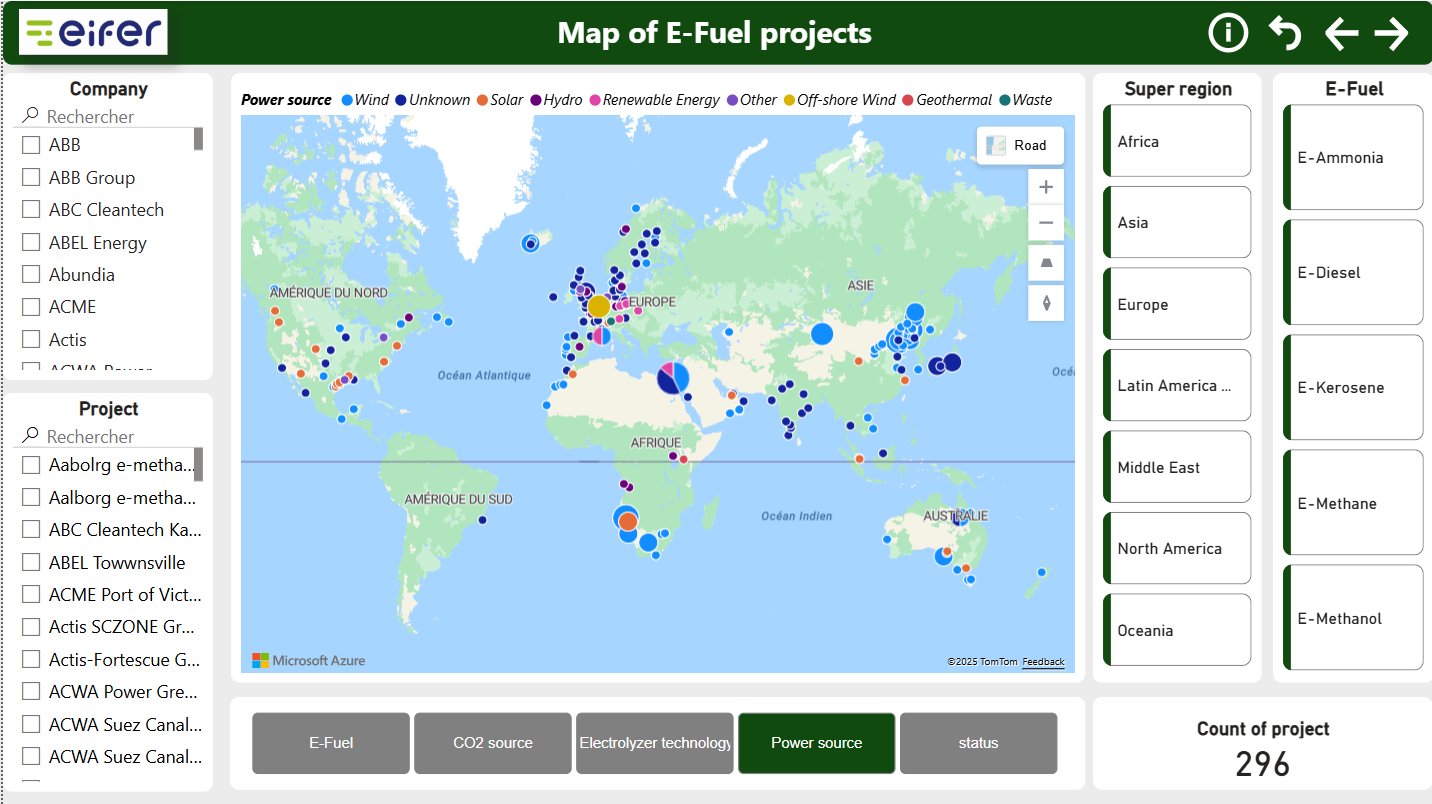
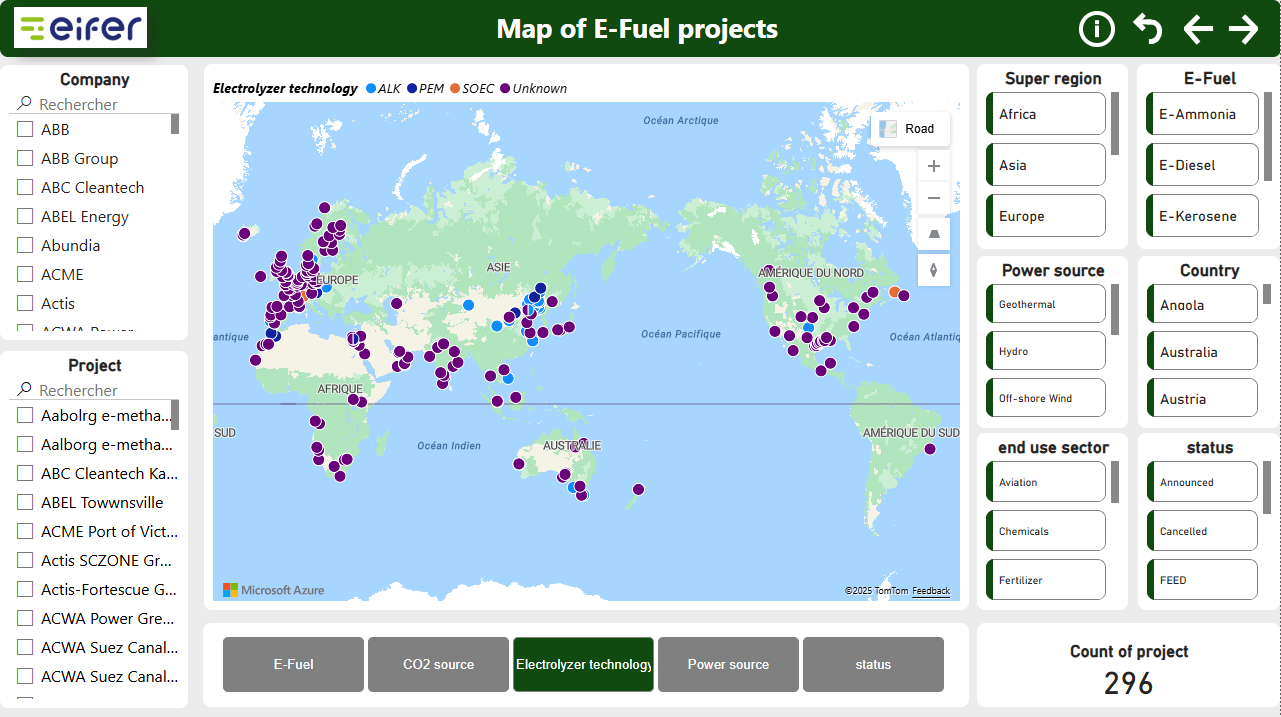
new images

diff --git a/index.html b/index.html
@@ -673,7 +673,7 @@
                 <div class="section-title">Map of E‑Fuel Projects</div>
             </div>
             <div class="section-tag">
-                Explore the global project landscape and filter by company, region, and e‑fuel type.
+                Explore the global project landscape and filter by company, region, fuel type, technology and status.
             </div>
         </div>
 
@@ -682,8 +682,8 @@
                 <h3>What you see</h3>
                 <p>
                     This page displays an interactive world map showing all E‑Fuel projects included in the
-                    dataset. Each point on the map represents a project, and its color indicates the project
-                    status (announced, operational, cancelled, etc.).
+                    dataset. Each point on the map represents a project, and its color indicates the selected
+                    legend (for example electrolyzer technology).
                 </p>
 
                 <div class="pill-section-title">
@@ -694,7 +694,11 @@
                     <li><strong>Company</strong>: Displays projects associated with a specific company.</li>
                     <li><strong>Project</strong>: Allows selection of individual projects.</li>
                     <li><strong>Super region</strong>: Filters projects by geographic area (Europe, Asia, Africa, etc.).</li>
-                    <li><strong>E‑Fuel</strong>: Filters by the type of e‑fuel (e‑ammonia, e‑methanol, e‑kerosene, etc.).</li>
+                    <li><strong>E‑Fuel</strong>: Filters by the type of e‑fuel (e‑ammonia, e‑diesel, e‑kerosene, etc.).</li>
+                    <li><strong>Power source</strong>: Filters by the primary energy source (e.g. wind, hydro, geothermal, off‑shore wind).</li>
+                    <li><strong>Country</strong>: Restricts the map to one or several countries.</li>
+                    <li><strong>End‑use sector</strong>: Filters projects by the final use of the fuel (aviation, chemicals, fertilizer, shipping, etc.).</li>
+                    <li><strong>Status</strong>: Filters by project status (announced, under construction, operational, cancelled, etc.).</li>
                 </ul>
 
                 <div class="pill-section-title">
@@ -703,7 +707,8 @@
                 </div>
                 <ul>
                     <li>Click on a geographic area to zoom in.</li>
-                    <li>Use the filters on the left and right to focus the analysis on a specific company, e‑fuel type, or region.</li>
+                    <li>Use the filters on the left and right to focus the analysis on a specific company, e‑fuel type, region, power source, sector or status.</li>
+                    <li>Use the buttons at the bottom of the page to change the legend (coloring) between E‑Fuel, CO₂ source, Electrolyzer technology, Power source and Status.</li>
                     <li>The total number of projects (shown in the bottom right) updates automatically based on selected filters.</li>
                 </ul>
             </article>
@@ -735,7 +740,7 @@
                 <div class="section-title">Cumulative Production of Chosen Metrics</div>
             </div>
             <div class="section-tag">
-                Track how CO₂ capture, e‑fuel output, and hydrogen production evolve over time.
+                Track how CO₂ capture, e‑fuel output, and hydrogen production evolve over time, and filter by fuel type, region, power source and country.
             </div>
         </div>
 
@@ -749,7 +754,7 @@
                 <ul>
                     <li>The horizontal axis (X‑axis) shows the year.</li>
                     <li>The vertical axis (Y‑axis) shows the cumulative quantity (in tons per year).</li>
-                    <li>The bars illustrate how production evolves over time for the selected metric.</li>
+                    <li>The bars illustrate how production evolves over time for the selected metric (CO₂ capture, e‑fuel production or H₂ production).</li>
                 </ul>
 
                 <div class="pill-section-title">
@@ -757,9 +762,11 @@
                     Available filters
                 </div>
                 <ul>
-                    <li><strong>Metric</strong>: Choose between CO₂ capture, e‑fuel production, or H₂ production.</li>
-                    <li><strong>E‑Fuel</strong>: Filters by type of e‑fuel involved.</li>
-                    <li><strong>Super region</strong>: Filters the data by geographic region.</li>
+                    <li><strong>Metric</strong>: Buttons at the bottom let you switch between CO₂ capture, e‑fuel production, and H₂ production.</li>
+                    <li><strong>E‑Fuel</strong>: Filters by the type of e‑fuel involved (e‑ammonia, e‑diesel, e‑kerosene, e‑methane, etc.).</li>
+                    <li><strong>Super region</strong>: Filters the data by geographic region (Africa, Asia, Europe, Latin America, Middle East, etc.).</li>
+                    <li><strong>Power source</strong>: Filters by the power source driving the production (e.g. geothermal, hydro, off‑shore wind).</li>
+                    <li><strong>Country</strong>: Focuses on the cumulative production for one or several countries.</li>
                 </ul>
 
                 <div class="pill-section-title">
@@ -768,8 +775,8 @@
                 </div>
                 <ul>
                     <li>Select the desired metric at the bottom of the page to update the chart.</li>
-                    <li>Use the filters to analyze production trends in a specific region.</li>
-                    <li>The “Count of projects” indicator automatically updates based on the selected filters.</li>
+                    <li>Use the filters to analyse production trends in a specific region, country, power source or e‑fuel type.</li>
+                    <li>The “Count of project” indicator automatically updates based on the selected filters.</li>
                 </ul>
             </article>
 
@@ -990,9 +997,9 @@
                 </ul>
             </article>
 
-            <aside class="fake-chart" aria-hidden="true">
-                <img src="image/company_details.png" alt="Power BI page: Company details" class="report-image" />
-            </aside>
+        <aside class="fake-chart" aria-hidden="true">
+            <img src="image/company_details.png" alt="Power BI page: Company details" class="report-image" />
+        </aside>
         </div>
 
         <div class="pager">
@@ -1017,7 +1024,7 @@
                 <div class="section-title">Status details of E‑Fuel projects</div>
             </div>
             <div class="section-tag">
-                Inspect how project statuses are distributed in a selected year and slice by region, country and e‑fuel type.
+                Inspect how project statuses are distributed in a selected year and slice by region, country, power source, sector and e‑fuel type.
             </div>
         </div>
 
@@ -1038,8 +1045,9 @@
                 <ul>
                     <li><strong>Super region</strong>: Filter the status breakdown for a specific world region (Europe, Asia, North America, etc.).</li>
                     <li><strong>Country</strong>: Focus on projects within one or several countries.</li>
-                    <li><strong>E‑Fuel</strong>: Limit the view to a specific e‑fuel type (e‑ammonia, e‑methanol, e‑kerosene, etc.).</li>
-                    <li><strong>Year</strong> (if available): Choose the reference year to see how the status mix evolves over time.</li>
+                    <li><strong>Power source</strong>: Filter by the energy source used in each project (e.g. geothermal, hydro, off‑shore wind).</li>
+                    <li><strong>End‑use sector</strong>: Filter by the sector using the e‑fuel (aviation, chemicals, fertilizer, shipping, etc.).</li>
+                    <li><strong>E‑Fuel</strong>: Limit the view to a specific e‑fuel type (e‑ammonia, e‑diesel, e‑kerosene, e‑methane, etc.).</li>
                 </ul>
 
                 <div class="pill-section-title">
@@ -1047,15 +1055,14 @@
                     How to use this page
                 </div>
                 <ul>
-                    <li>Use the slicers on the left and right to select the super region, country and e‑fuel type you want to analyse.</li>
+                    <li>Use the slicers on the left and right to select the super region, country, power source, sector and e‑fuel type you want to analyse.</li>
                     <li>Read the pie chart to see how many projects fall into each status category and what percentage they represent.</li>
                     <li>Combine filters (for example: a single country and one e‑fuel type) to understand where projects are mostly announced, under construction or already operational.</li>
-                    <li>Use the “Count of projects” card to check the total number of projects currently included in your filtered selection.</li>
+                    <li>Use the “Count of project” card to check the total number of projects currently included in your filtered selection.</li>
                 </ul>
             </article>
 
             <aside class="fake-chart" aria-hidden="true">
-                <!-- Update the filename if you save the screenshot under another name -->
                 <img src="image/status_details.png" alt="Power BI page: Status details of e‑fuel projects" class="report-image" />
             </aside>
         </div>
